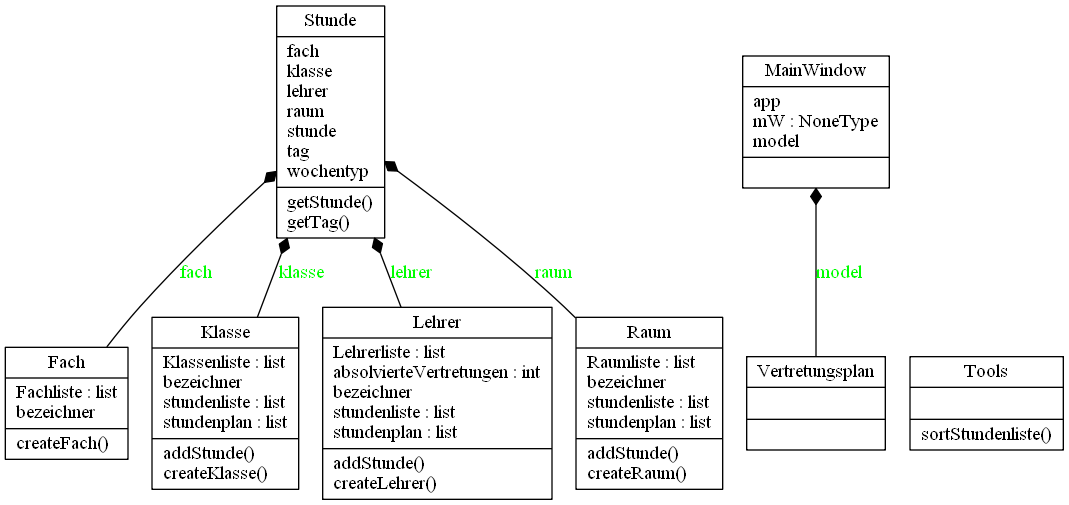
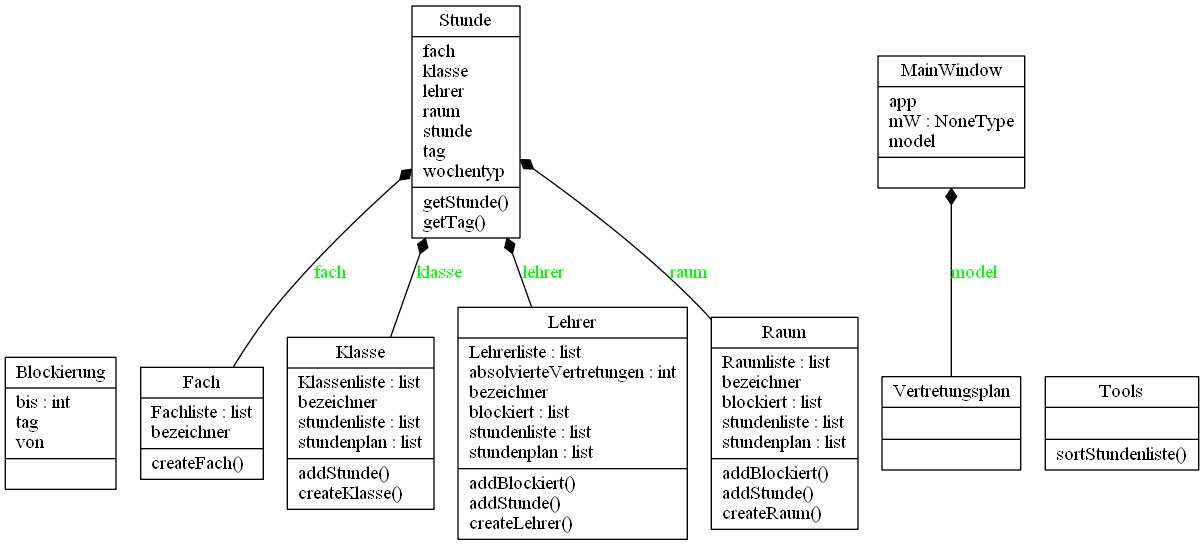
ADD: Blockiert class for blocked time periods

diff --git a/classes.py b/classes.py
@@ -100,6 +100,7 @@ class Raum:
         self.bezeichner = bezeichner
         self.stundenliste = []
         self.stundenplan = [[],[],[],[],[]]
+        self.blockiert = []
 
         Raum.Raumliste.append(self)
         self.addStunde(stunde)
@@ -108,6 +109,9 @@ class Raum:
     def addStunde(self,stunde):
         self.stundenliste.append(stunde)
         self.stundenplan = Tools.sortStundenliste(self.stundenliste)
+    
+    def addBlockiert(self,tag,von,bis):
+        self.blockiert.append(Blockierung(tag,von,bis))
 #--------------------------------------------------
 #--------------------------------------------------
 
@@ -140,11 +144,15 @@ class Lehrer:
 
         Lehrer.Lehrerliste.append(self)
         self.addStunde(stunde)
+        self.blockiert = []
 
     
     def addStunde(self,stunde):
         self.stundenliste.append(stunde)
         self.stundenplan = Tools.sortStundenliste(self.stundenliste)
+    
+    def addBlockiert(self,tag,von,bis):
+        self.blockiert.append(Blockierung(tag,von,bis))
 #--------------------------------------------------
 #--------------------------------------------------
 
@@ -171,6 +179,25 @@ class Fach:
     def __init__(self,bezeichner):
         self.bezeichner = bezeichner
         Fach.Fachliste.append(self)
+#--------------------------------------------------
+#--------------------------------------------------
+
+
+#--------------------------------------------------
+#--------------------------------------------------
+class Blockierung:
+    #--------------------------------------------------
+        # attributes:
+        #   tag: 0-4 (mo-fr)
+        #   von/bis: 0-10; if bis is smaller than von bis is replaced by 10 (end of day)
+    #--------------------------------------------------
+    def __init__(self,tag:int,von:int,bis:int):
+        self.tag = tag
+        self.von = von
+        if bis < von:
+            self.bis = 10
+        else:
+            self.bis = bis
 #--------------------------------------------------
 #--------------------------------------------------
 
